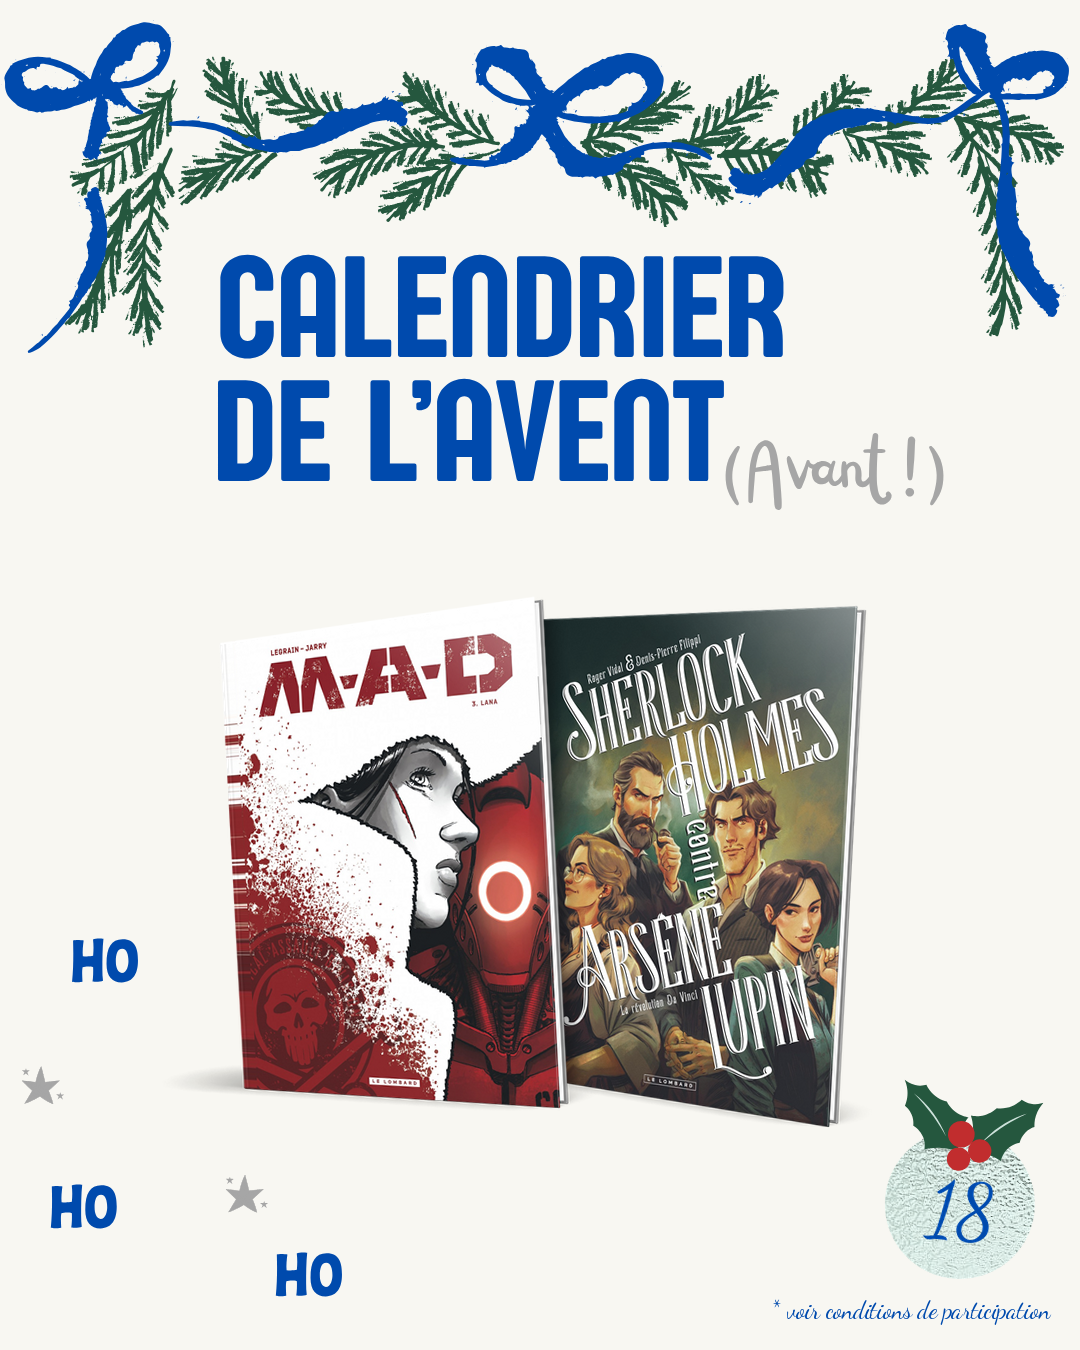
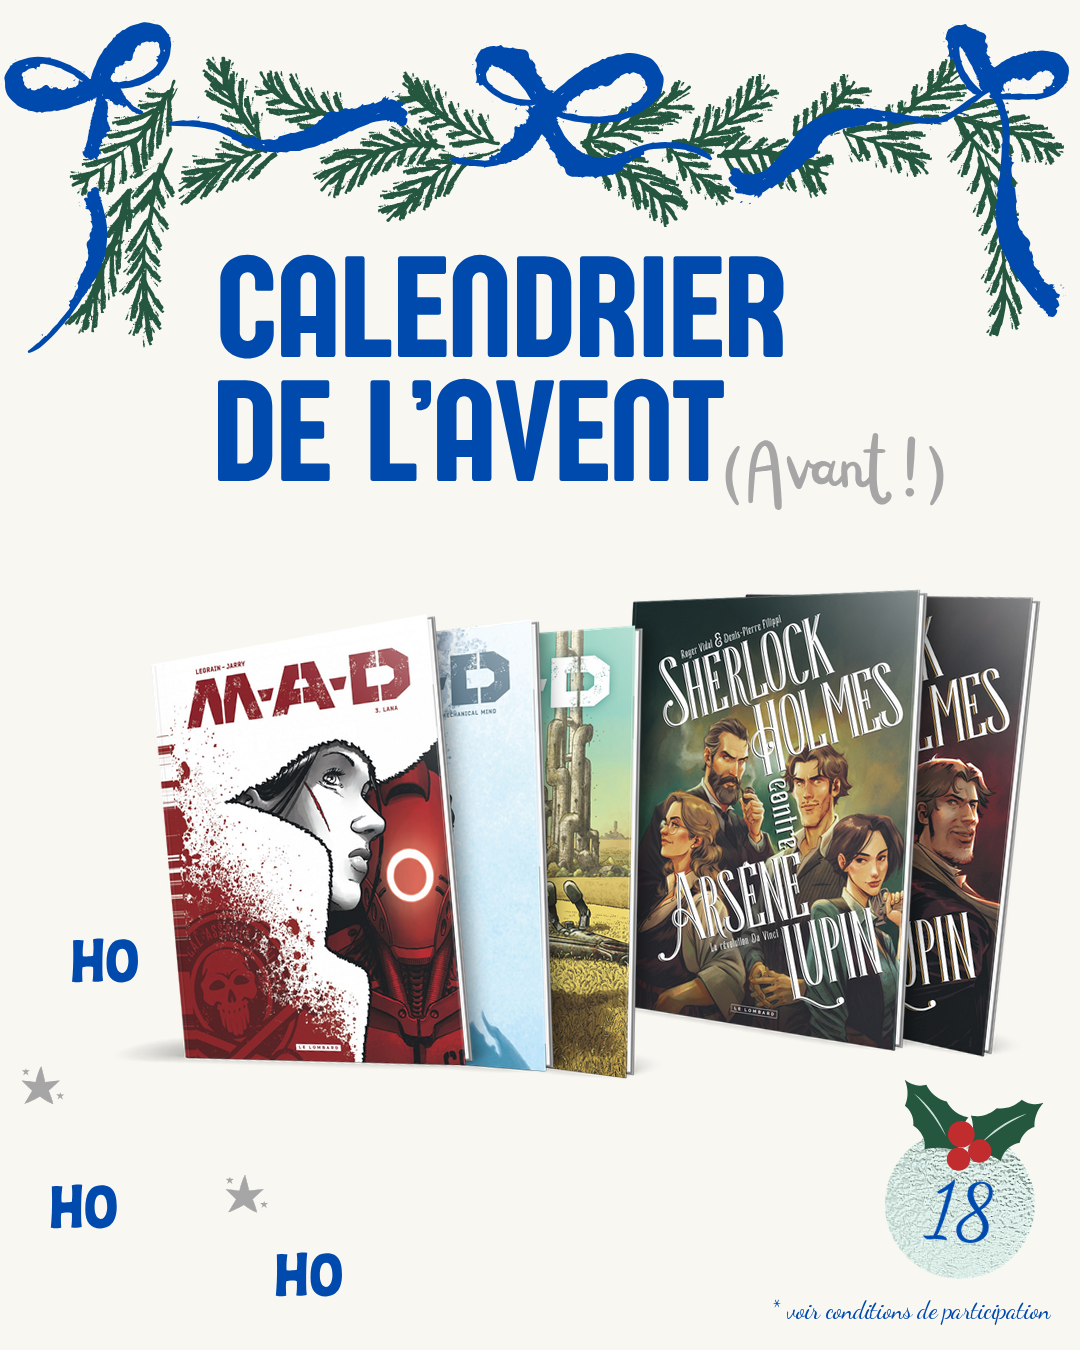
Calendrier Avant : jour 18 = M.A.D. 1-3 | Holmes vs Lupin 1-2 (mise en page du jour 16)
Claude-Session: https://claude.ai/code/session_01QaZk7QZvzTVY1x8op41wve

Changed region(s): [[0.1528, 0.4356, 0.9778, 0.84]]

diff --git a/calendrier-avent-2026/planning.py b/calendrier-avent-2026/planning.py
@@ -27,7 +27,7 @@ PLANNING = [
     ['9782808218115'],                    # 15 Un Noël à Paris 2
     'jour16',                             # 16 Jian 1-2 | La voie du glaive 1-3 (voir COMPOSITIONS)
     {'serie': ['9782808212588', '9782803676767']},                                   # 17 Mitsuo 2, 1
-    ['9782808217453', '9782808218092'],   # 18 M.A.D. 3 + Sherlock Holmes contre Arsène Lupin 2
+    'jour18',                             # 18 M.A.D. 1-3 | Sherlock Holmes contre Arsène Lupin 1-2 (voir COMPOSITIONS)
     ['9782808218078', '9782808216821'],   # 19 Pro gamer 2 + Dinodyssée 3
     ['9782808216760'],                    # 20 Alpha 21 – Caméléon
     ['9782808216937'],                    # 21 Les Enfants de la Résistance 10 – La guerre n'est pas finie
@@ -64,6 +64,13 @@ COMPOSITIONS = {
                   ('9782808215008', 3, 1.02, 3), ('9782808212144', 6, 1.02, 2), ('9782808211192', 9, 1.02, 1)],
         'dy': [20, 20, -15, -15, -15],       # Jian plus bas, La voie du glaive plus haut
         'steps': [0.35, 0.95, 0.32, 0.32], 'h': 460, 'y': 600, 'cx': 590,
+    },
+    # même mise en page que le jour 16 : M.A.D. 3 devant, 2 et 1 derrière | Holmes vs Lupin 2, puis 1 derrière
+    'jour18': {
+        'books': [('9782808217453', -5, 1.0, 5), ('9782808214759', -2, 1.0, 4), ('9782808211796', 1, 1.0, 3),
+                  ('9782808218092', 3, 1.02, 2), ('9782808212533', 6, 1.02, 1)],
+        'dy': [20, 20, 20, -15, -15],
+        'steps': [0.32, 0.32, 0.95, 0.35], 'h': 460, 'y': 600, 'cx': 590,
     },
 }
 

diff --git a/calendrier-avent-2026/README.md b/calendrier-avent-2026/README.md
@@ -36,6 +36,7 @@ Si la simulation a déjà sa propre ombre au sol, elle est gardée telle quelle.
 
 Compositions sur mesure : dictionnaire `COMPOSITIONS` de `planning.py` (angle, échelle, profondeur `z` et écarts par album).
 Jour 16 : Jian 2 devant (-5°), Jian 1 derrière à sa droite (-2°) | La voie du glaive 3, 2, 1 à droite (+3°, +6°, +9°).
+Jour 18 : même mise en page – M.A.D. 3, 2, 1 (-5°, -2°, +1°) | Holmes vs Lupin 2, 1 (+3°, +6°).
 
 Versions alternatives : liste `VARIANTES` de `planning.py` (ex. `jour14b` : Resurrection Hill, Little Tulip, New York Cannibals – collection Signé Boucq/Charyn ; `jour15b` : Un Noël à Paris 2 devant, 1 derrière)..
 
